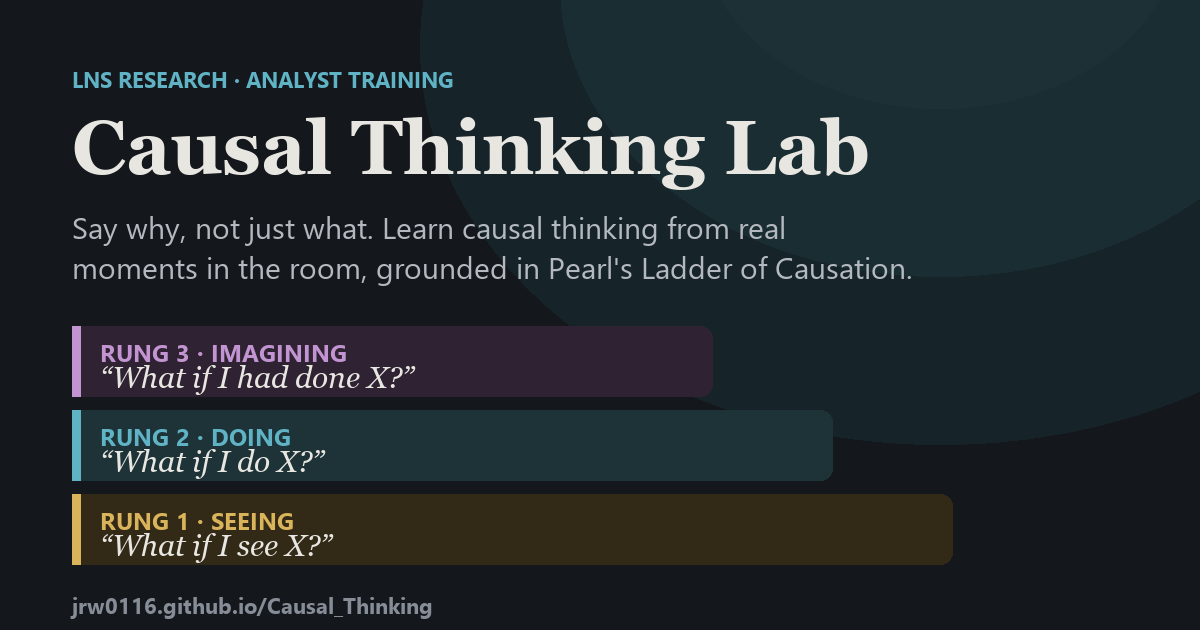
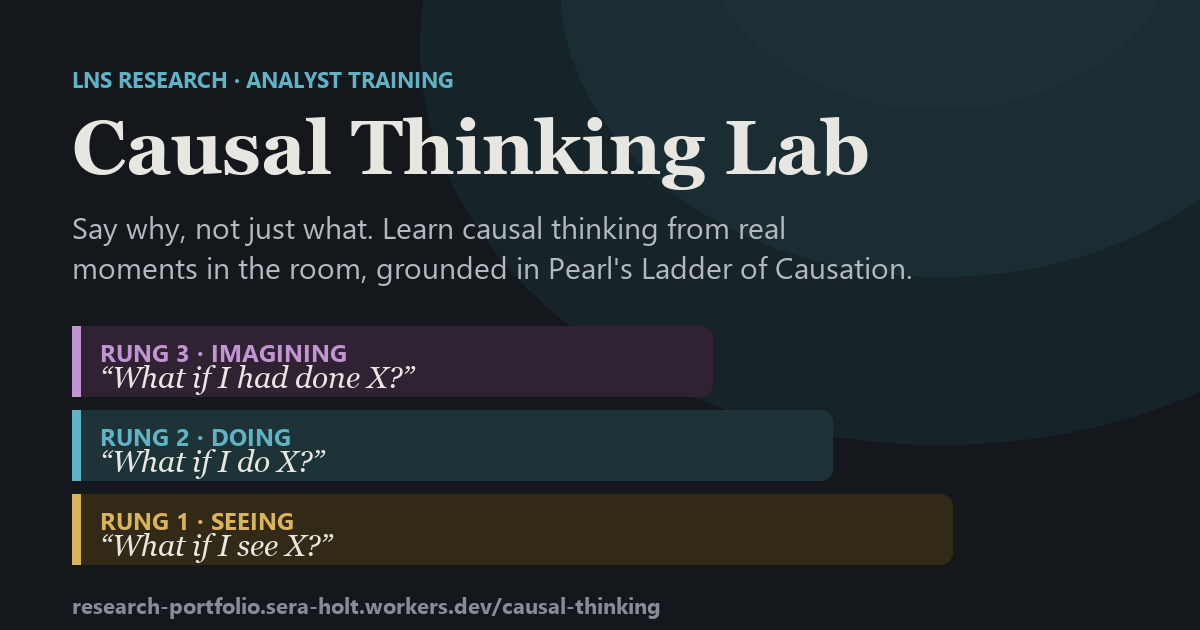
Deploy to Cloudflare Worker research-portfolio; point share links there

Changed region(s): [[0.0617, 0.9349, 0.555, 0.9952]]

diff --git a/index.html b/index.html
@@ -4,21 +4,21 @@
 <meta charset="utf-8">
 <meta name="viewport" content="width=device-width, initial-scale=1">
 <title>Causal Thinking Lab</title>
-<link rel="canonical" href="https://jrw0116.github.io/Causal_Thinking/">
+<link rel="canonical" href="https://research-portfolio.sera-holt.workers.dev/causal-thinking/">
 <link rel="icon" type="image/png" href="assets/favicon.png">
 <meta property="og:type" content="website">
 <meta property="og:site_name" content="Causal Thinking Lab">
 <meta property="og:title" content="Causal Thinking Lab: say why, not just what">
 <meta property="og:description" content="Learn causal thinking by asking: real moments from LNS Research roundtables and councils, grounded in Pearl's Ladder of Causation. Commit to an answer, see what happened, and learn to say why, not just what.">
-<meta property="og:url" content="https://jrw0116.github.io/Causal_Thinking/">
-<meta property="og:image" content="https://jrw0116.github.io/Causal_Thinking/assets/og-image.png">
+<meta property="og:url" content="https://research-portfolio.sera-holt.workers.dev/causal-thinking/">
+<meta property="og:image" content="https://research-portfolio.sera-holt.workers.dev/causal-thinking/assets/og-image.png">
 <meta property="og:image:width" content="1200">
 <meta property="og:image:height" content="630">
 <meta property="og:image:alt" content="Causal Thinking Lab: Pearl's three rungs, seeing, doing and imagining">
 <meta name="twitter:card" content="summary_large_image">
 <meta name="twitter:title" content="Causal Thinking Lab: say why, not just what">
 <meta name="twitter:description" content="Learn causal thinking by asking: real moments from LNS Research roundtables and councils, grounded in Pearl's Ladder of Causation. Commit to an answer, see what happened, and learn to say why, not just what.">
-<meta name="twitter:image" content="https://jrw0116.github.io/Causal_Thinking/assets/og-image.png">
+<meta name="twitter:image" content="https://research-portfolio.sera-holt.workers.dev/causal-thinking/assets/og-image.png">
 <meta name="description" content="Bring an insight and challenge it: seven questions walk your claim up Pearl's Ladder of Causation, from seeing to doing to imagining. Plus real moments from LNS Research's fall 2026 sessions.">
 <link rel="preconnect" href="https://fonts.googleapis.com">
 <link rel="preconnect" href="https://fonts.gstatic.com" crossorigin>

diff --git a/assets/app.js b/assets/app.js
@@ -23,7 +23,7 @@
   const store = CT.store;
 
   /* ---------- sharing ---------- */
-  const SITE = "https://jrw0116.github.io/Causal_Thinking/";
+  const SITE = "https://research-portfolio.sera-holt.workers.dev/causal-thinking/";
   CT.share = async function (hash, title) {
     const url = SITE + (hash || "");
     const text = title ? `${title}, from the Causal Thinking Lab` : "Causal Thinking Lab: say why, not just what";

diff --git a/tools/build_cf.py b/tools/build_cf.py
@@ -1,0 +1,12 @@
+"""Stage the site for the Cloudflare Worker (research-portfolio): dist/causal-thinking/ + root redirect."""
+import pathlib, shutil
+root = pathlib.Path(__file__).resolve().parent.parent
+dist = root / "dist"
+if dist.exists():
+    shutil.rmtree(dist)
+out = dist / "causal-thinking"
+out.mkdir(parents=True)
+shutil.copy2(root / "index.html", out / "index.html")
+shutil.copytree(root / "assets", out / "assets")
+(dist / "_redirects").write_text("/ /causal-thinking/ 302\n", encoding="utf-8")
+print("staged", sum(1 for _ in out.rglob("*") if _.is_file()), "files in", out)

diff --git a/README.md b/README.md
@@ -60,3 +60,14 @@ by rung, and the ideas map is grouped by where each idea lives on the ladder.
 
 Cases live in `assets/content.js` (deck stories) and `assets/cases-2.js` (KM roundtable,
 OpEx roundtable and the Industrial AI Insights session prep call).
+
+## Cloudflare deployment
+
+Live at https://research-portfolio.sera-holt.workers.dev/causal-thinking/ — the `research-portfolio` Worker in the LNS Research Cloudflare account, serving the site as static assets under `/causal-thinking/` (the root redirects there).
+
+```
+py tools/build_cf.py        # stages index.html + assets/ into dist/causal-thinking/
+npx wrangler@4 deploy       # uses wrangler.jsonc; needs `wrangler login` with LNS Research access
+```
+
+GitHub Pages (jrw0116.github.io/Causal_Thinking) still serves the same files; share links and preview tags point at the Cloudflare URL.
